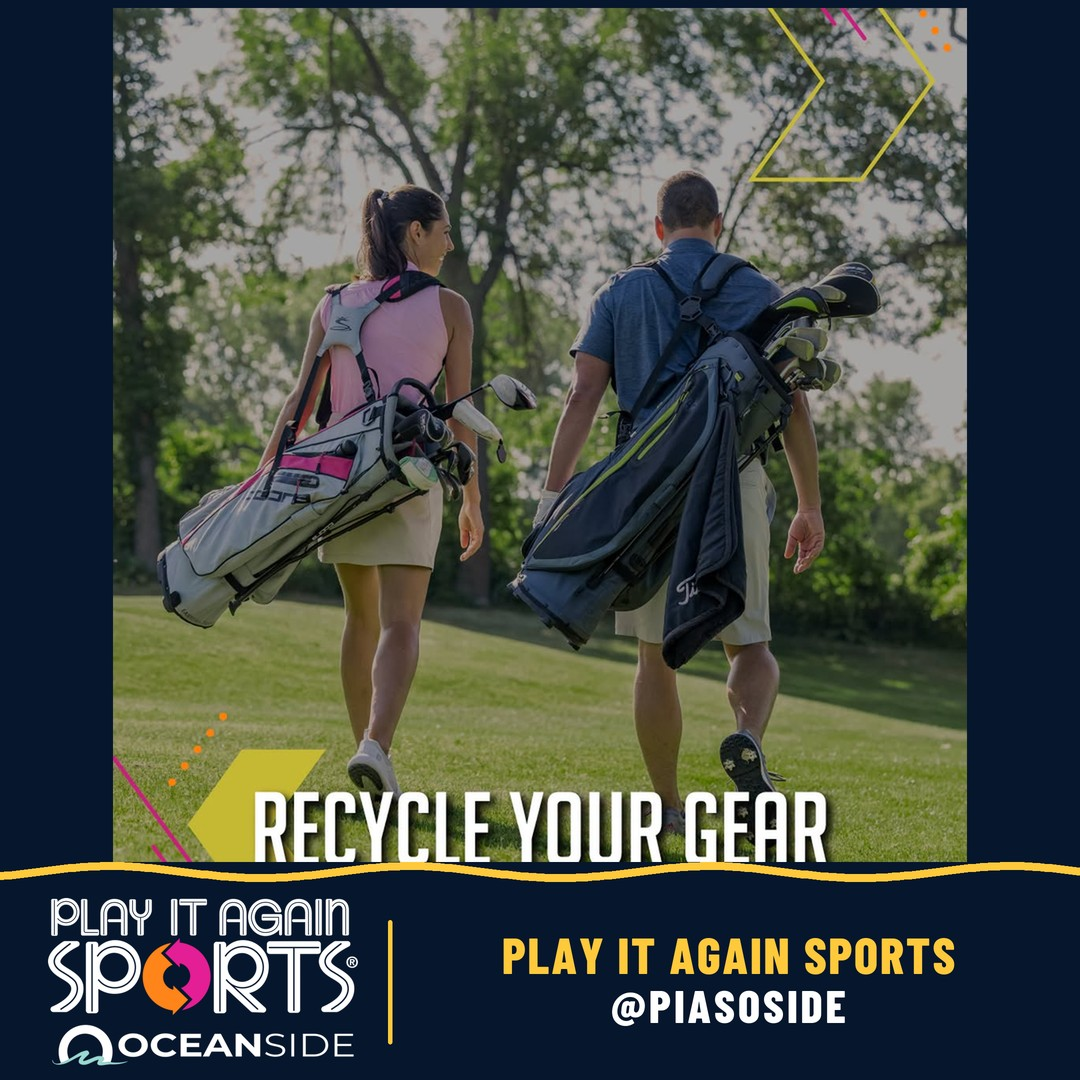
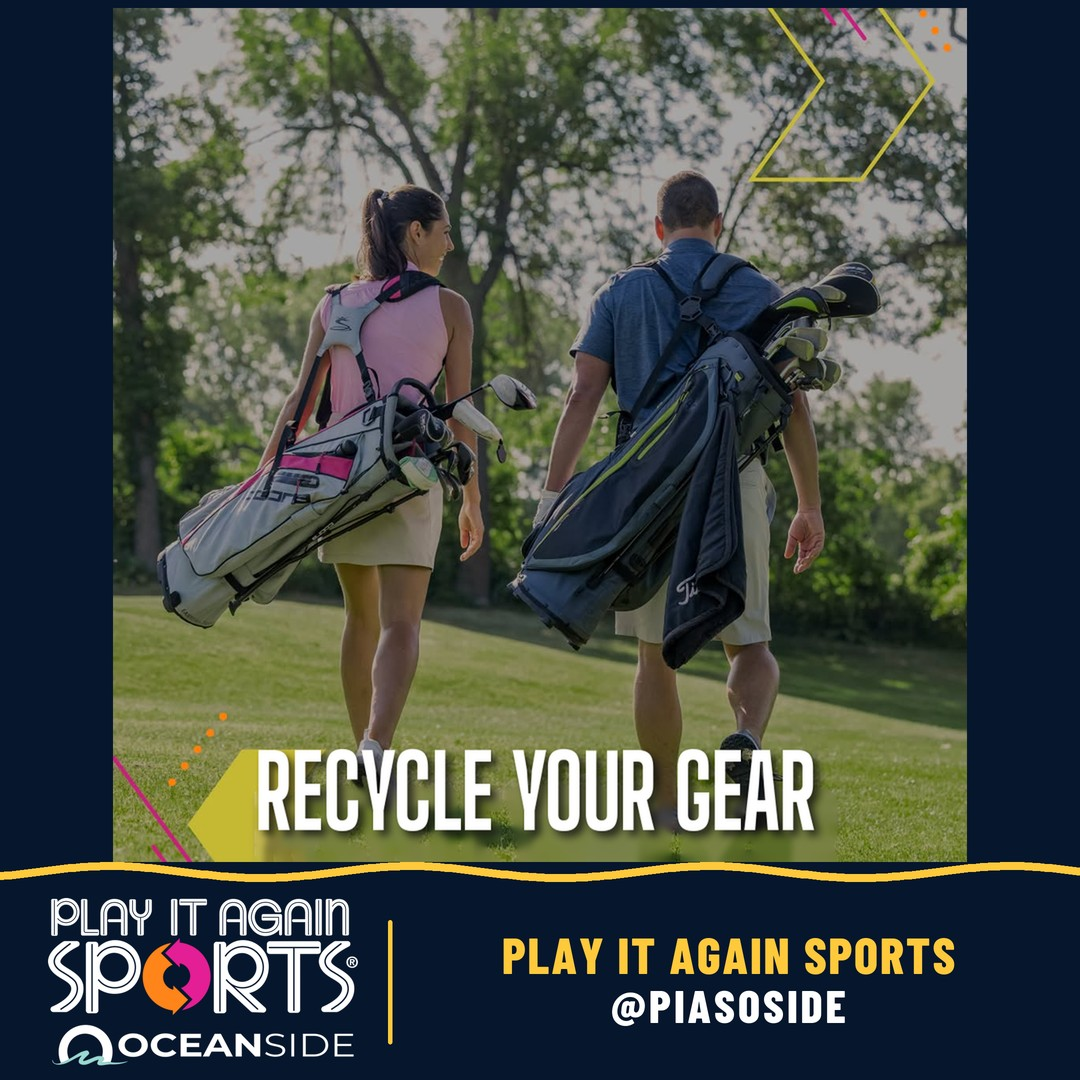
TV: fix footer-clipped corp stills and play wides full screen
Replace 302, 307, 312, 314, and 321 with repaired stills so bottom copy sits clear of the baked footer. Rebuild the wax, regrip, and snow-menu wides at 1920x1080. Patch the player so landscape and W-wide slides play alone full frame (no 3-up or policy strip), and a failed full-slide fetch skips to the next item. Bump version.txt so the TVs reload.

Changed region(s): [[0.2139, 0.6722, 0.7944, 0.825]]

diff --git a/index.html b/index.html
@@ -318,7 +318,7 @@ function hideHol(){document.getElementById('hol').style.display='none'}
 let gen=0;async function next(){clearTimeout(t);t=null;const g=++gen;const stale=()=>g!==gen;const H=document.getElementById('hol');
  const A=activeDated();if(A.length&&++holN>(M.datedEvery||7)){holN=0;const it=A[holI++%A.length];try{const u=await getBlob(it.src);if(H.style.display==='block')throw 0;H.firstChild.src=u;try{await H.firstChild.decode()}catch(e){}if(stale())return;if(fromVid){vid.pause()}H.style.display='block';clearTimeout(t);t=setTimeout(next,(it.seconds||15)*1000);return}catch(e){}}if(M&&!(M.items[i]&&M.items[i].type==='video')&&tryWx())return;if(!M){t=setTimeout(async()=>{await load();next()},5000);return}
  if(i>=M.items.length){i=0;await load();if(stale())return}
- const it=M.items[i++];savePos();if(it.full){try{const u=await getBlob(it.full);if(stale())return;H.firstChild.src=u;try{await H.firstChild.decode()}catch(e){}if(stale())return;if(fromVid){vid.pause()}H.style.display='block';clearTimeout(t);t=setTimeout(next,(it.seconds||15)*1000);return}catch(e){}}let u;try{u=await getBlob(it.src)}catch(e){if(!stale())t=setTimeout(next,300);return}if(stale())return;
+ const it=M.items[i++];savePos();if(it.full){try{const u=await getBlob(it.full);if(stale())return;H.firstChild.src=u;try{await H.firstChild.decode()}catch(e){}if(stale())return;if(fromVid){vid.pause()}H.style.display='block';clearTimeout(t);t=setTimeout(next,(it.seconds||15)*1000);return}catch(e){if(!stale())t=setTimeout(next,300);return}}let u;try{u=await getBlob(it.src)}catch(e){if(!stale())t=setTimeout(next,300);return}if(stale())return;
  if(it.type==='video'){vid.muted=true;vid.src=u;let d=false;
   try{await vid.play()}catch(e){if(stale())return;t=setTimeout(next,100);return}if(stale())return;
   document.body.classList.remove('bT','bB','bL','bR');document.body.classList.add('vid','b'+(it.banner||'B'));freshOn(it.fresh);const baked=!!(it.fresh&&it.fresh.baked);showOv(it.fresh?null:it.overlay);bannerCycle(Math.min(it.maxSeconds||16,isFinite(vid.duration)&&vid.duration>0?vid.duration:99),baked?[]:it.bAt);placeCorner(it);cornerWatch(!baked);document.body.classList.remove('X');vid.style.display='block';fromVid=true;st.style.visibility=wd.style.visibility='hidden';requestAnimationFrame(hideHol);
@@ -326,6 +326,8 @@ let gen=0;async function next(){clearTimeout(t);t=null;const g=++gen;const stale
   vid.onended=done;vid.onerror=done;t=setTimeout(done,(it.maxSeconds||16)*1000);peek()}
  else{let L;if(it.wide&&(svcN++%2===1)){L='W';try{u=await getBlob(it.wide)}catch(e){L=null}if(stale())return}if(!L){side=side==='L'?'R':'L';L=side}
   const n=new Image();n.src=u;try{await n.decode()}catch(e){}if(stale())return;
+  /* wide (landscape) slides, incl. the 1920x860 service wides, play alone full frame: no 3-up cards, no logo/policy strip over their own baked footer */
+  if(L==='W'||n.naturalWidth>n.naturalHeight*1.2){H.firstChild.src=u;try{await H.firstChild.decode()}catch(e){}if(stale())return;if(fromVid){vid.pause()}H.style.display='block';peek();clearTimeout(t);t=setTimeout(next,(it.seconds||M.defaultSeconds||20)*1000);return}
   const tgt=L==='W'?wimg:img;const apply=()=>{document.body.classList.remove('L','R','W','X');document.body.classList.add(L);st.style.visibility=wd.style.visibility=''};
   if(fromVid){tgt.src=u;try{await tgt.decode()}catch(e){}if(stale())return;apply();
    requestAnimationFrame(()=>{cornerWatch(false);bTm.forEach(clearTimeout);bTm=[];document.body.classList.remove('vid','bh','bT','bB','bL','bR');vid.style.display='none';showOv(null);vid.removeAttribute('src');vid.load();hideHol()});fromVid=false}
